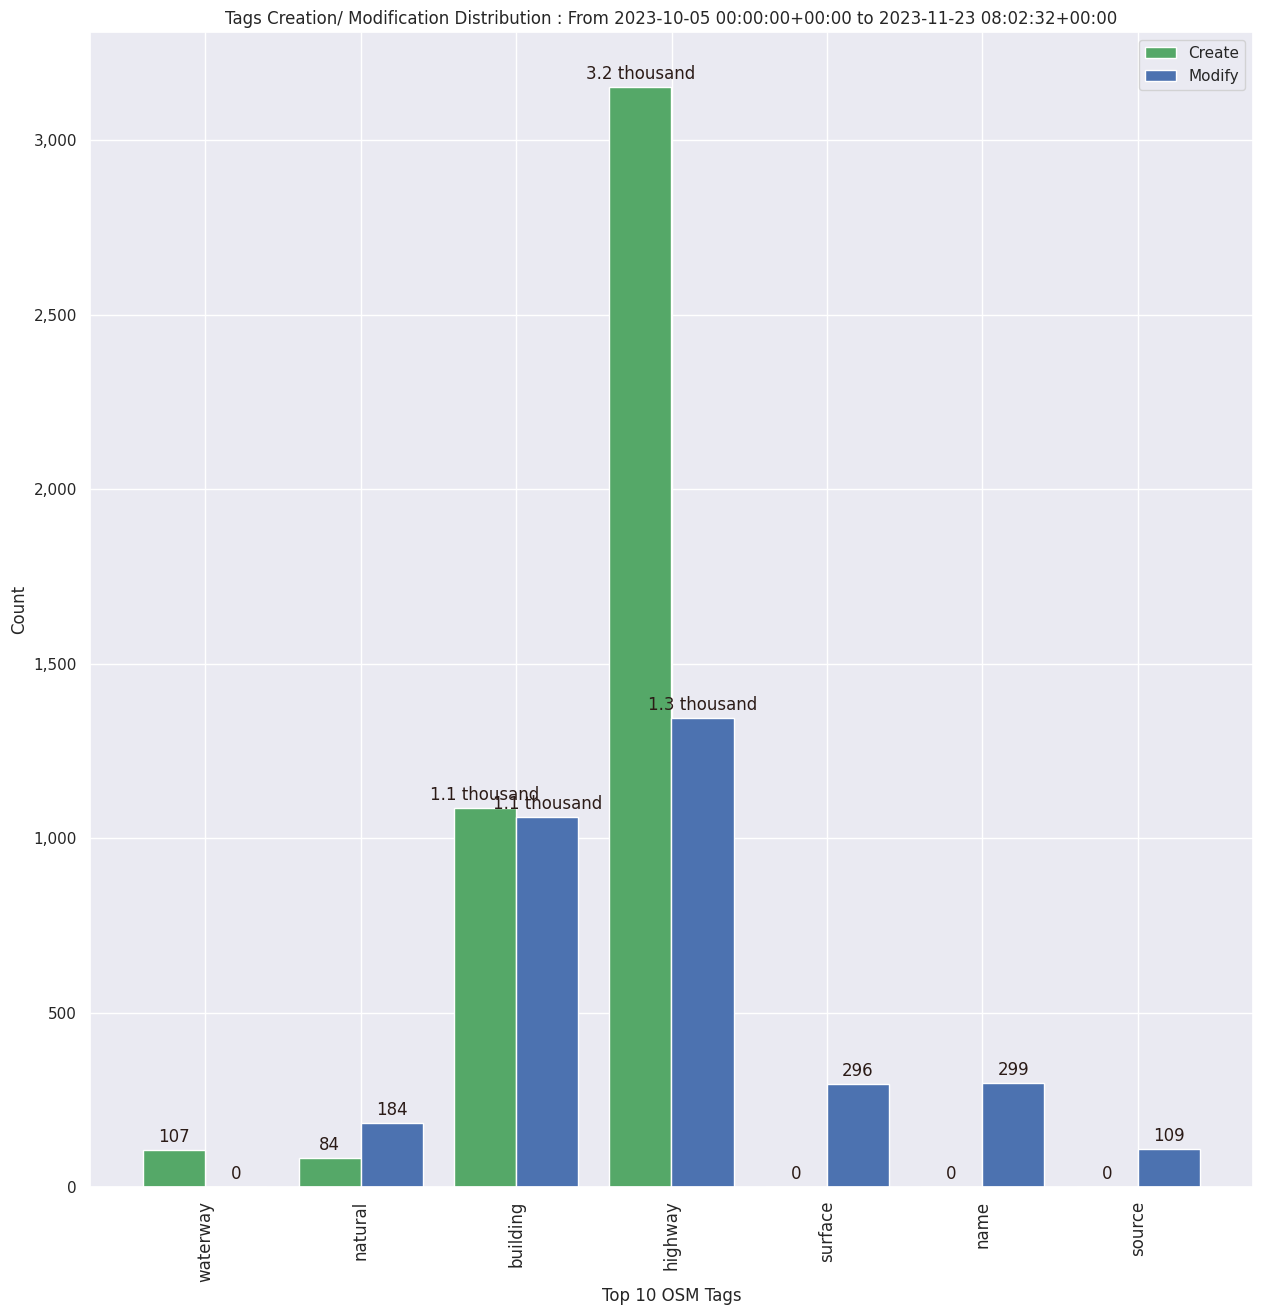
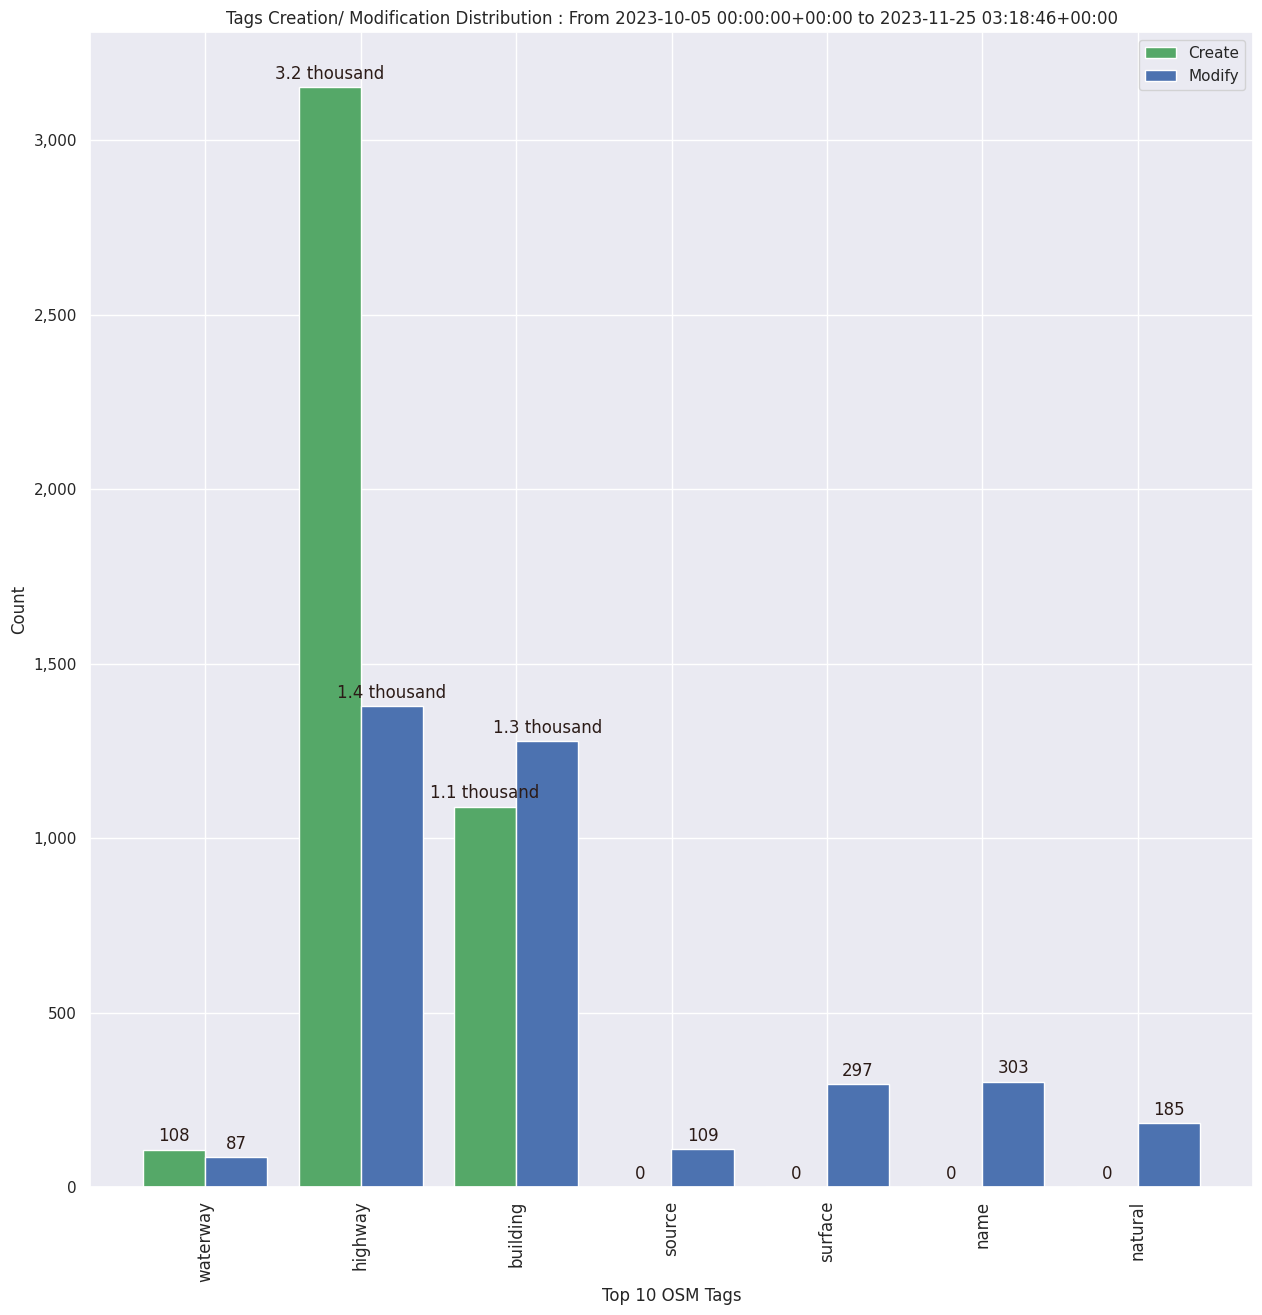
Updated Every2days SNRMPNepal stats

diff --git a/stats/SNRMPNepal/Every2days/Readme.md b/stats/SNRMPNepal/Every2days/Readme.md
@@ -1,7 +1,7 @@
-### Last Update : Stats from 2023-10-05 00:00:00+00:00 to 2023-11-23 08:02:32+00:00 (UTC Timezone)
+### Last Update : Stats from 2023-10-05 00:00:00+00:00 to 2023-11-25 03:18:46+00:00 (UTC Timezone)
 
-#### 62 Users made 1.9 thousand changesets with 153.1 thousand map changes.
-#### 120.7 thousand OSM Elements were Created, 31.4 thousand Modified & 1.0 thousand Deleted.
+#### 63 Users made 1.9 thousand changesets with 155.5 thousand map changes.
+#### 121.0 thousand OSM Elements were Created, 32.2 thousand Modified & 2.2 thousand Deleted.
 Get Full Stats at [stats.csv](/stats/SNRMPNepal/Every2days/stats.csv)
  & Get Summary Stats at [stats_summary.csv](/stats/SNRMPNepal/Every2days/stats_summary.csv)
 
@@ -13,10 +13,10 @@ Top 5 Users are :
 - Nischal Acharya - 642 : 7.3 thousand Map Changes
 
 Summary of Supplied Tags
-- poi = Created: 34, Modified : 19
-- building = Created: 1.1 thousand, Modified : 1.1 thousand
-- highway = Created: 3.2 thousand, Modified : 1.3 thousand
-- waterway = Created: 107, Modified : 78
+- poi = Created: 35, Modified : 24
+- building = Created: 1.1 thousand, Modified : 1.3 thousand
+- highway = Created: 3.2 thousand, Modified : 1.4 thousand
+- waterway = Created: 108, Modified : 87
 - amenity = Created: 0, Modified : 2
 - highway length created = 1.0 thousand Km
 
@@ -24,25 +24,25 @@ Summary of Supplied Tags
 Top 5 Created tags are :
 - highway: 3.2 thousand
 - building: 1.1 thousand
-- waterway: 107
+- waterway: 108
 - natural: 84
 - landuse: 23
 
 
 Top 5 Modified tags are :
-- highway: 1.3 thousand
-- building: 1.1 thousand
-- name: 299
-- surface: 296
-- natural: 184
+- highway: 1.4 thousand
+- building: 1.3 thousand
+- name: 303
+- surface: 297
+- natural: 185
 
 
 Top 5 trending hashtags are:
-- #startnetwork : 62 users
-- #SNRMPNepal : 62 users
-- #aphub : 62 users
-- #OMGuru : 62 users
-- #hotosm-project-15639 : 35 users
+- #SNRMPNepal : 63 users
+- #aphub : 63 users
+- #OMGuru : 63 users
+- #startnetwork : 63 users
+- #hotosm-project-15639 : 37 users
 
 
 Top 5 trending editors are:
@@ -54,7 +54,7 @@ Top 5 trending editors are:
 
 
 Top 5 trending Countries where user contributed are:
-- Nepal : 61 users
+- Nepal : 62 users
 - China : 3 users
 - India : 1 users
 
